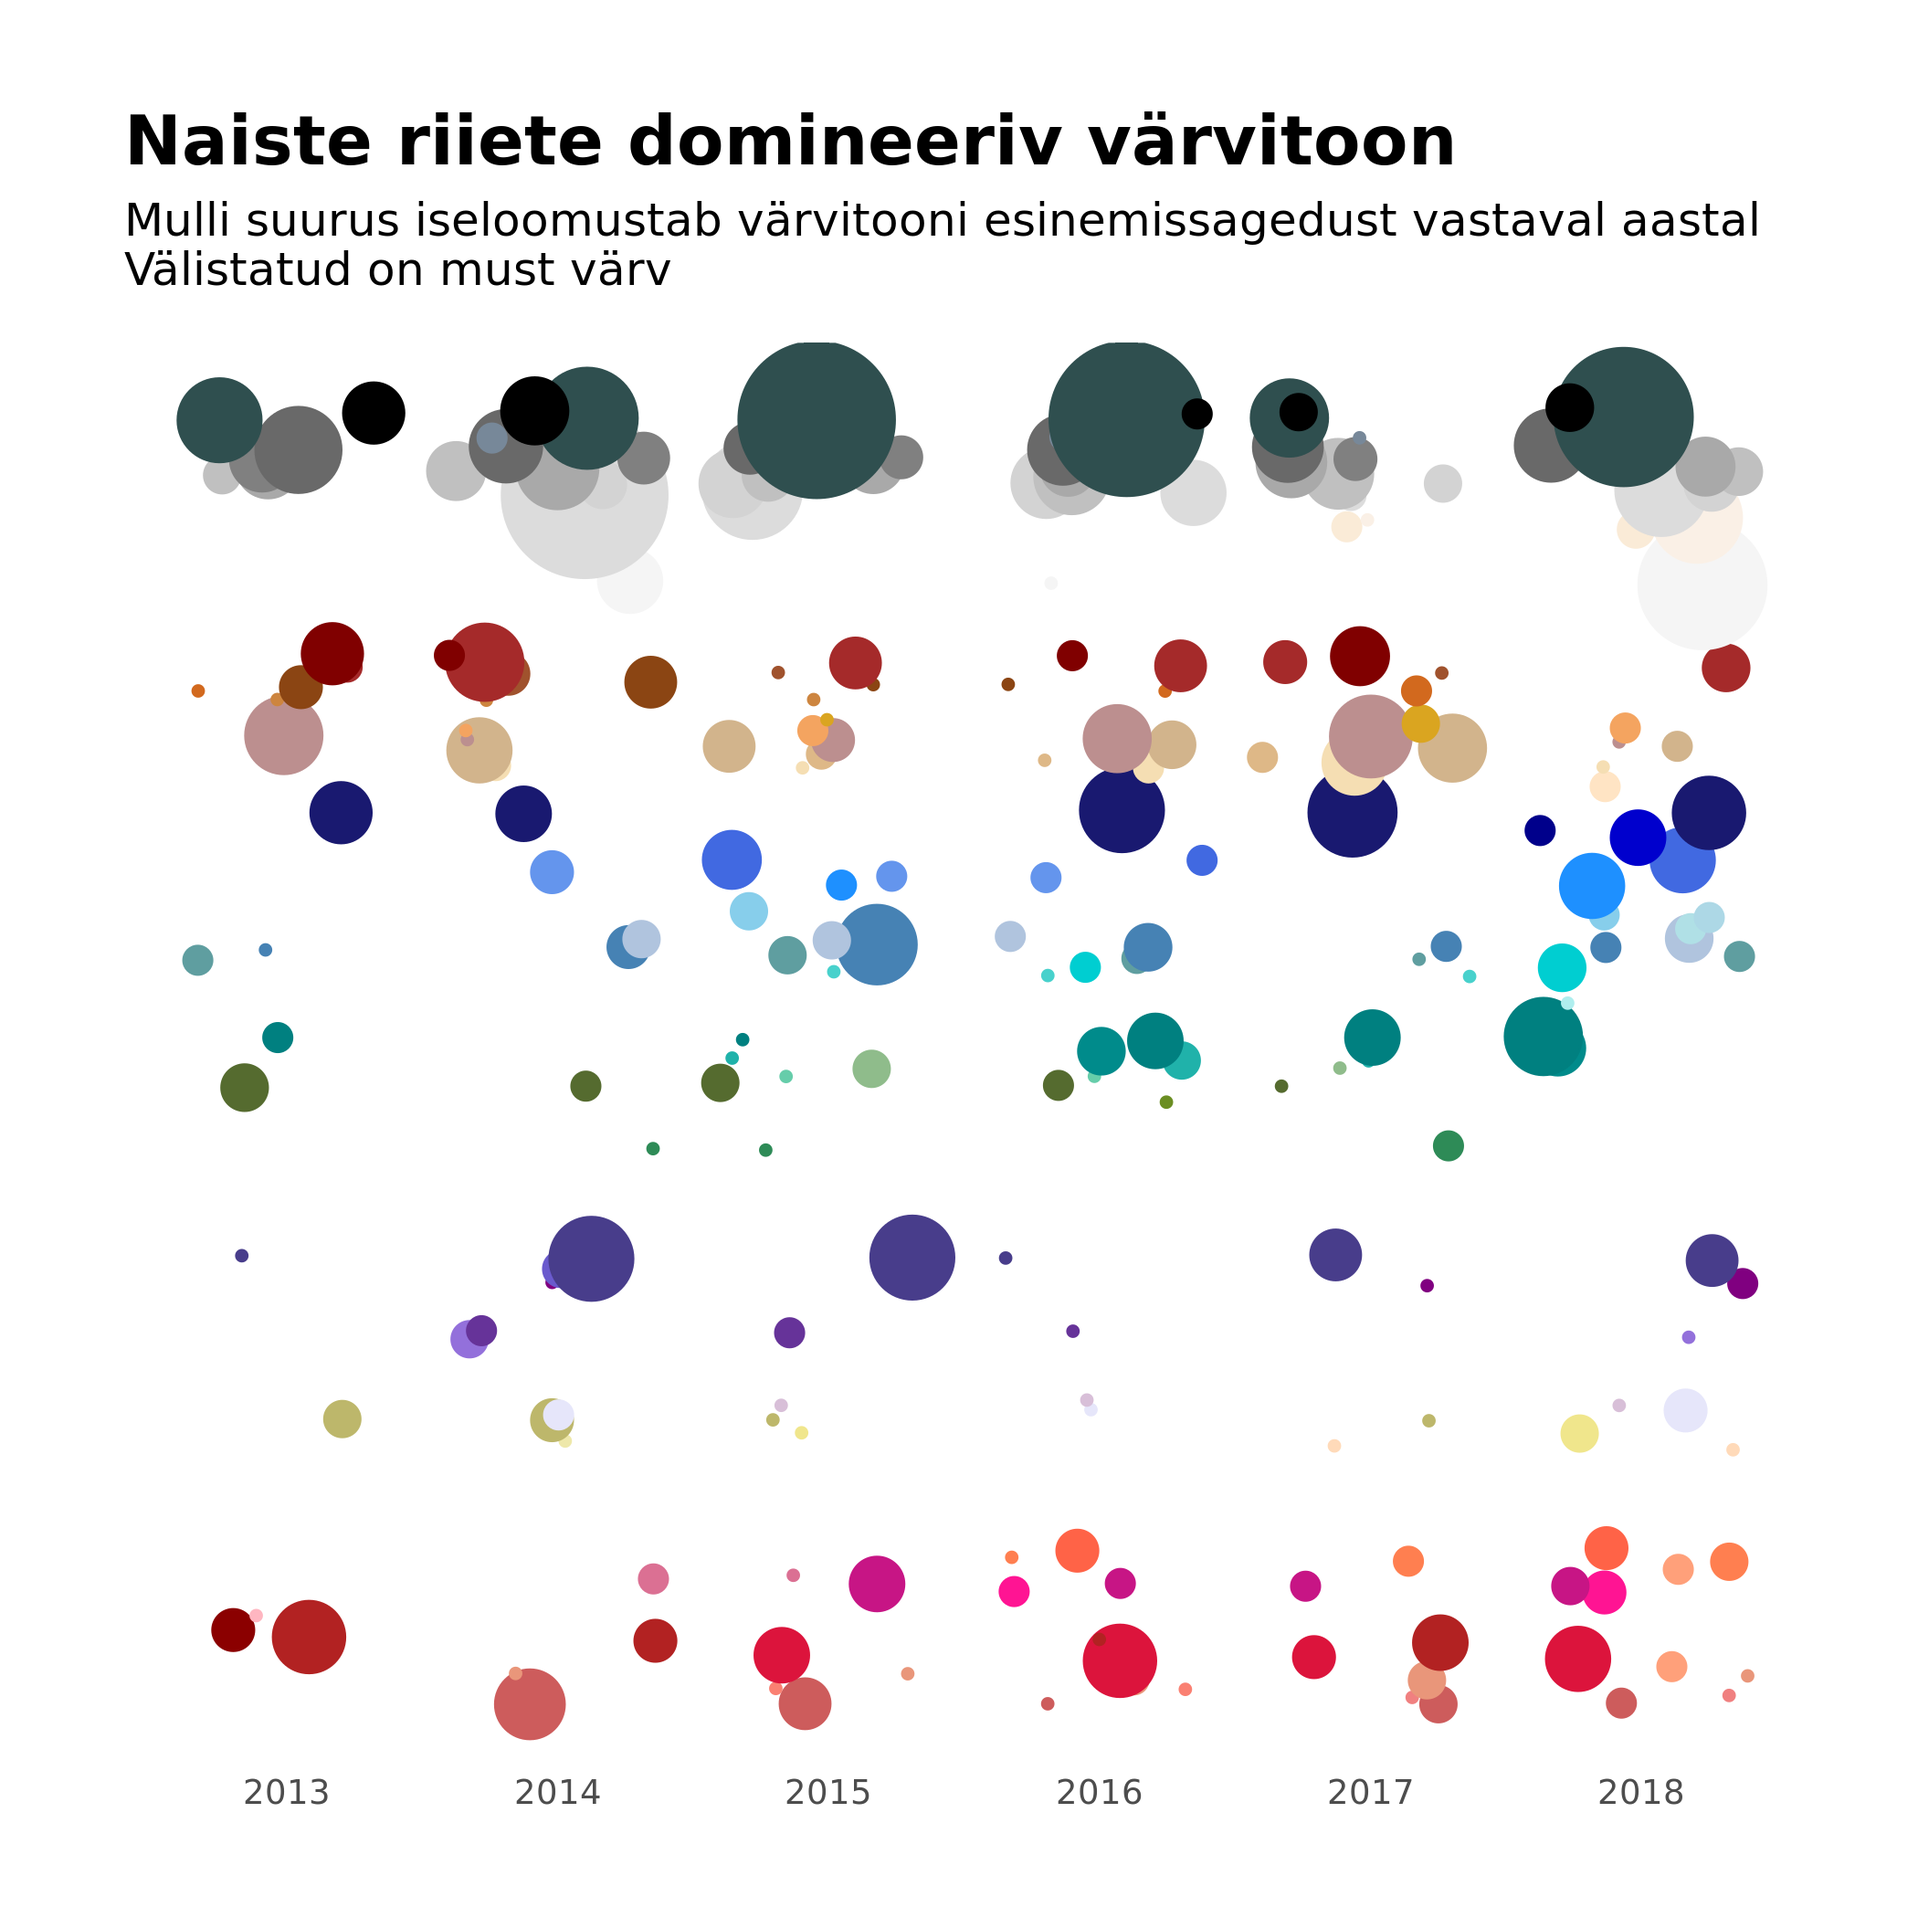
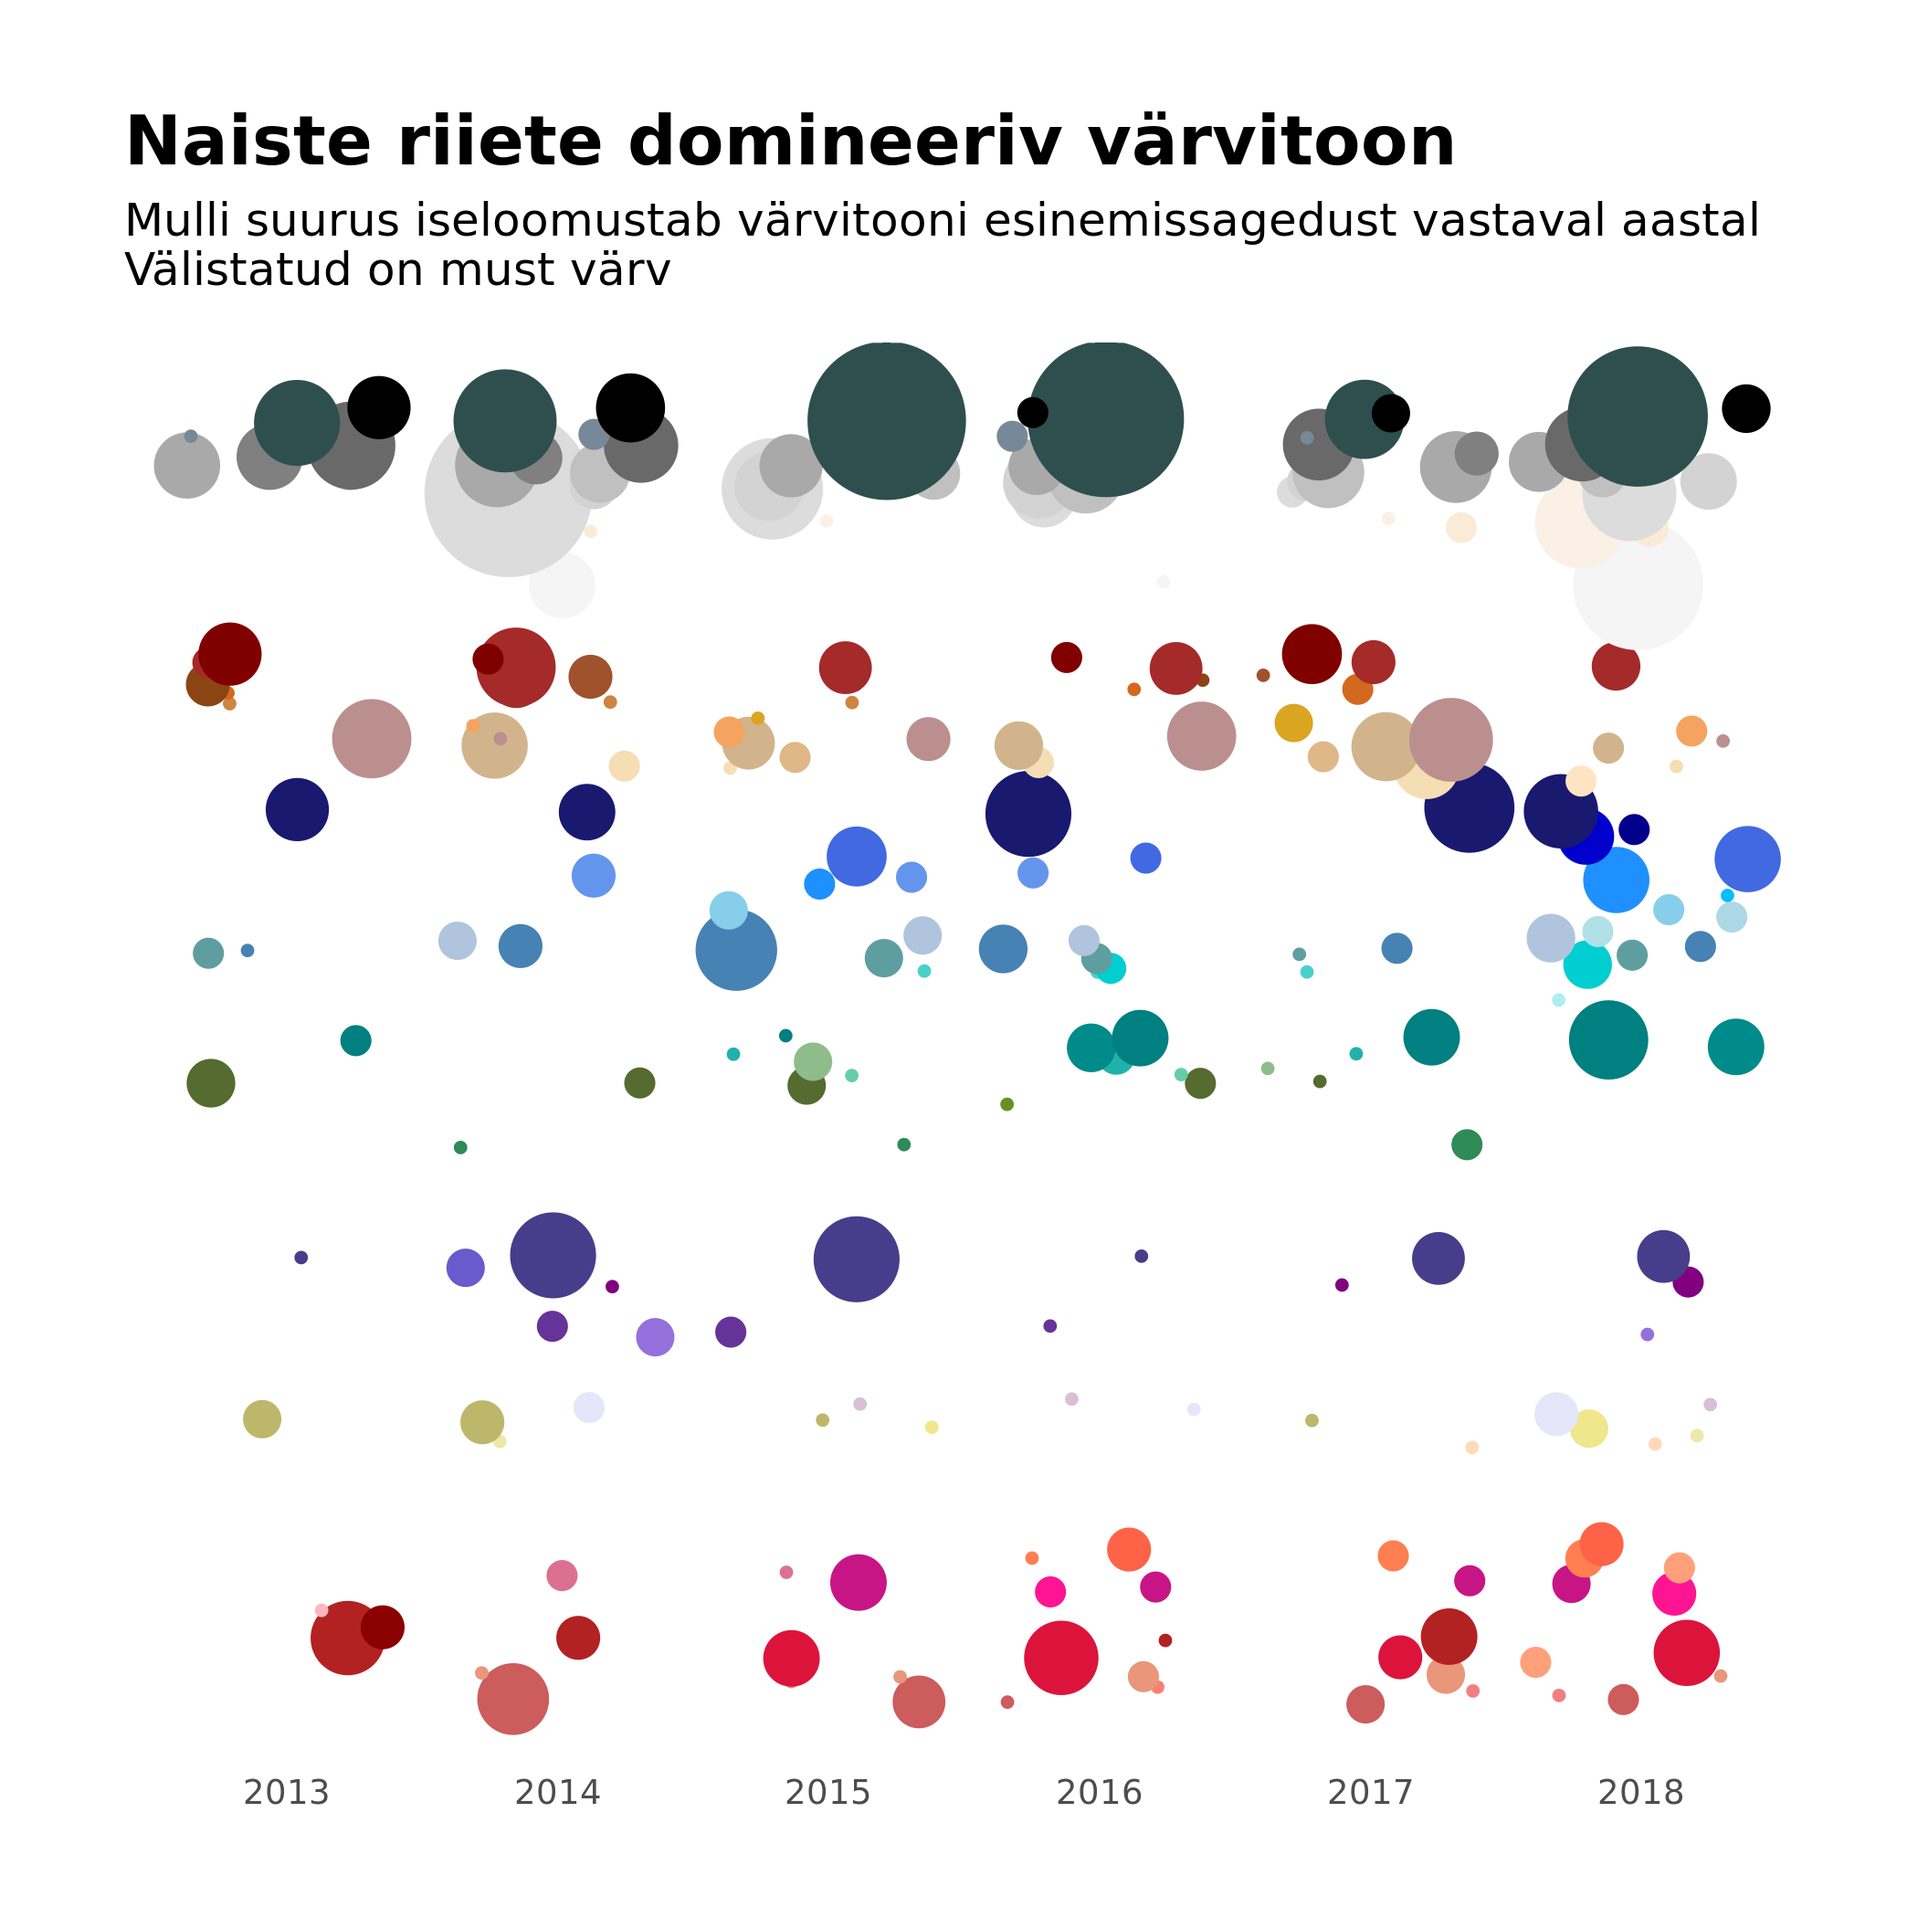
paranda sõnastust ja graafiku suurust

diff --git a/_posts/2018-03-08-ev_aastapaeva_vastuvott.md b/_posts/2018-03-08-ev_aastapaeva_vastuvott.md
@@ -11,9 +11,9 @@ layout: post
 
 
 
-EV100 presidendi vastuvõtu vaatamisega tekkis mõte analüüsida peol tehtud pildigaleriisid. See on hea võimalus viia ennast pisut kurssi piltidelt info kogumisega. Esimene eesmärk on leida trende külaliste piduriiete värvitoonides läbi aastate. Samuti võimaldab [Kairos](https://www.kairos.com/) näotuvastus API tuvastada piltidelt teisi analüüsiväärseid tunnuseid (inimese vanus, sugu, prillide olemasolu jne). Pisut täpsemalt metoodikast postituse lõpus.
+EV100 presidendi vastuvõtu vaatamisega tekkis mõte analüüsida peol tehtud pildigaleriisid. See on hea võimalus viia ennast pisut kurssi piltidelt info kogumisega. Esimene eesmärk on leida trende külaliste peoriiete värvitoonides läbi aastate. Samuti võimaldab [Kairos](https://www.kairos.com/) näotuvastus API tuvastada piltidelt teisi analüüsiväärilisi tunnuseid (inimese vanus, sugu, prillide olemasolu jne). Pisut täpsemalt kirjeldan metoodikat postituse lõpus.
 
-Kokku õnnestus mul [ERR-i](https://err.ee) ja [Õhtulehe]() presidendi vastuvõtu galeriidest perioodi 2013-2018 kohta kraapida ~2500 pilti. Kuigi huvitav oleks uurida pikemat perioodi, ei õnnestunud mul lihtsa vaevaga leida varasemate aastate kohta fotoseina ääres tehtud galeriisid.
+Kokku õnnestus mul [ERR-i](https://err.ee) ja [Õhtulehe]() presidendi vastuvõtu galeriidest (2013-2018) kraapida ~2500 pilti. Kuigi huvitav oleks uurida pikemat perioodi, tunuds varasemate aastate galeriide leidmine ja kraapimine keerulisem.
 
 
 ### Populaarsed värvitoonid riietuses
@@ -22,7 +22,8 @@ Kokku õnnestus mul [ERR-i](https://err.ee) ja [Õhtulehe]() presidendi vastuvõ
 
 Igalt pildilt tuvastasin kõigi inimeste kohta 2 kõige domineerivamat värvitooni. Järgnevatel graafikutel ongi kujutatud nende värvide esinemissagedust aastate lõikes.
 
-Milline on domineeriv riietuse värvitoon kõigi külaliste peale kokku? Ettearvatult on kõige populaarsem värv must, mis domineerib umbes 60% külaliste riietuses. Erisusena paistab välja 2015.a, kus osa musta populaarsusest on üle võtnud hallid toonid. Seda fenomeni uurin kohe pisut detailsemalt.
+Milline on domineeriv riietuse värvitoon kõigi külaliste peale kokku? 
+Ettearvatult on kõige populaarsem värv must, mis domineerib umbes 60% külaliste riietuses. Erisusena paistab välja 2015. a, kus osa musta populaarsusest on üle võtnud hallid toonid. Seda fenomeni uurin allpool pisut detailsemalt.
 
 ![]({{ site.url }}/img/ev_aastapaeva_vastuvott-domineeriv_varv_kokku-1.png)
 
